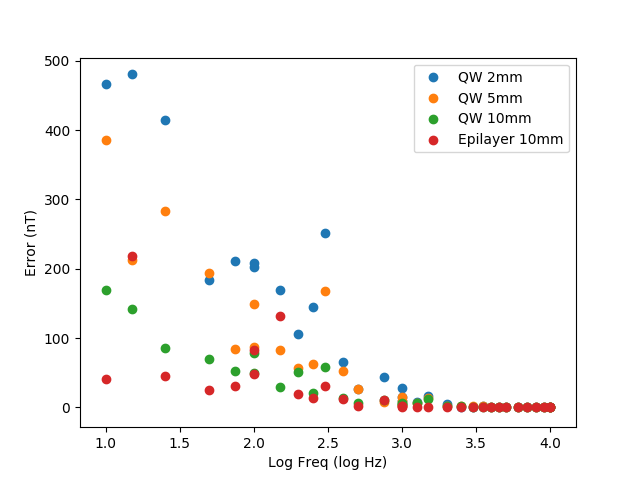
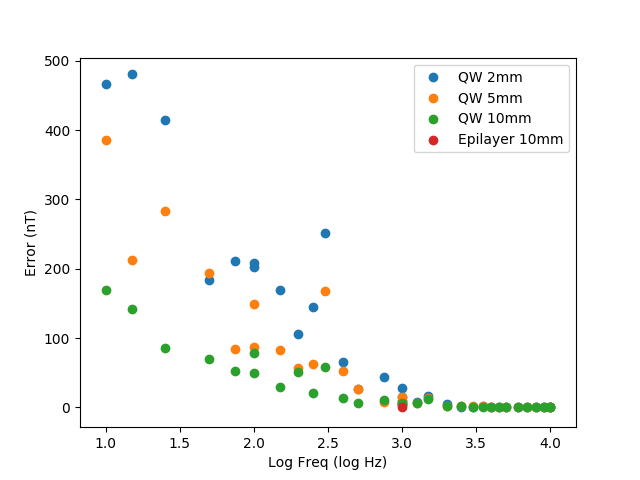
Add requirements and constants.csv

diff --git a/model.py b/model.py
@@ -447,7 +447,7 @@ def run():
     analyze_device('QW 2mm')
     analyze_device('QW 5mm')
     analyze_device('QW 10mm', chosen_i=1e-3)
-    analyze_device('Epilayer 10mm', chosen_i=1e-2)
+    analyze_device('Epilayer 10mm', chosen_i=1e-3)
     analyze_all()
 
 if __name__ == '__main__':
